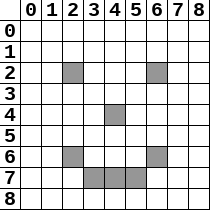
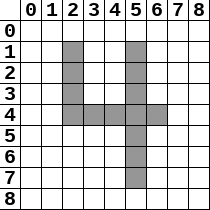
1-7

diff --git a/exercices/002.py b/exercices/002.py
@@ -1,25 +1,28 @@
 from libs.PyxelArt import *
 
-a = 2
-b = a
-c = 1
+colorier(0,4)
+colorier(2,4)
 
-for loop in range(5) :
-    if a != 4 :
-        colorier(a,1)
-    else :
-        colorier(a,2)
-    a = a + 1
-    
-for loop in range(3) :
-    colorier(1,b)
-    colorier(7,b)
-    b = b + 1
+a = 6
+b = 2
 
-colorier(4,7)
-for loop in range(2) :
-    colorier(4-c,7-c)
-    colorier(4+c,7-c)
+colorier(a,b)
+a = a + 1
+colorier(a,b)
+a = a + 1
+colorier(a,b)
+b = b + 1
+colorier(a,b)
+b = b + 1
+colorier(a,b)
+a = a - 1
+colorier(a,b)
+a = a - 1
+colorier(a,b)
+
+c = 0
+for loop in range(7) :
+    colorier(c,3)
     c = c + 1
-    
+
 ss()

diff --git a/exercices/007.py b/exercices/007.py
@@ -1,0 +1,33 @@
+from libs.PyxelArt import *
+
+a = 0
+for loop in range(2) :
+    colorier(3,a)
+    colorier(4,a)
+    colorier(5,a)
+    a = a + 1
+
+x = 3
+for loop in range(3) :
+    y = 3
+    for loop in range(4) :
+        colorier(x,y)
+        y = y + 1
+    x = x + 1
+
+b = 2
+colorier(2*b,b)
+
+for loop in range(5) :
+    if b != 4 :
+        colorier(b,8)
+    b = b + 1
+    
+colorier(3,7)
+colorier(5,7)
+colorier(1,3)
+colorier(2,4)
+colorier(6,4)
+colorier(7,3)
+    
+ss()

diff --git a/exercices/001.py b/exercices/001.py
@@ -1,16 +1,27 @@
 from libs.PyxelArt import *
 
-a = 4
-b = 2
-colorier(2,2)
-colorier(6,2)
+colorier(5,1)
+colorier(5,2)
+colorier(5,3)
+colorier(5,5)
+colorier(5,7)
+
+a = 2
+b = a - 1
+c = a + 1
+colorier(a,b)
 colorier(a,a)
-colorier(b,6)
-b = b + 4
-colorier(b,6)
-c = 3
-for loop in range(3) :
-    colorier(c,7)
-    c = c + 1
+colorier(a,c)
+
+d = a + c
+e = a * c
+colorier(d,e)
+
+colorier(a,4)
+colorier(e,4)
+colorier(a,4)
+colorier(4,4)
+colorier(d,4)
+colorier(c,4)
 
 ss()

diff --git a/exercices/006.py b/exercices/006.py
@@ -1,0 +1,25 @@
+from libs.PyxelArt import *
+
+a = 2
+b = a
+c = 1
+
+for loop in range(5) :
+    if a != 4 :
+        colorier(a,1)
+    else :
+        colorier(a,2)
+    a = a + 1
+    
+for loop in range(3) :
+    colorier(1,b)
+    colorier(7,b)
+    b = b + 1
+
+colorier(4,7)
+for loop in range(2) :
+    colorier(4-c,7-c)
+    colorier(4+c,7-c)
+    c = c + 1
+    
+ss()

diff --git a/exercices/004.py b/exercices/004.py
@@ -1,0 +1,23 @@
+from libs.PyxelArt import *
+
+a = 1
+
+
+for loop in range(7) :
+    colorier(a,0)
+    colorier(a,8)
+    colorier(0,a)
+    colorier(8,a)
+    a = a + 1
+
+b = 2
+c = 6
+d = c - b
+
+colorier(b,b)
+colorier(c,c)
+colorier(b,c)
+colorier(c,b)
+colorier(d,d)
+
+ss()

diff --git a/exercices/005.py b/exercices/005.py
@@ -1,0 +1,18 @@
+from libs.PyxelArt import *
+
+colorier(5,5)
+colorier(6,4)
+
+a = 0
+for loop in range(9) :
+    if a != 1 :
+        colorier(4,a)
+    if a < 3 :
+        colorier(3,a)
+        colorier(5,a)
+    a = a + 1
+
+colorier(3,7)
+colorier(2,6)
+
+ss()

diff --git a/exercices/003.py b/exercices/003.py
@@ -1,0 +1,16 @@
+from libs.PyxelArt import *
+
+a = 4
+b = 2
+colorier(2,2)
+colorier(6,2)
+colorier(a,a)
+colorier(b,6)
+b = b + 4
+colorier(b,6)
+c = 3
+for loop in range(3) :
+    colorier(c,7)
+    c = c + 1
+
+ss()
